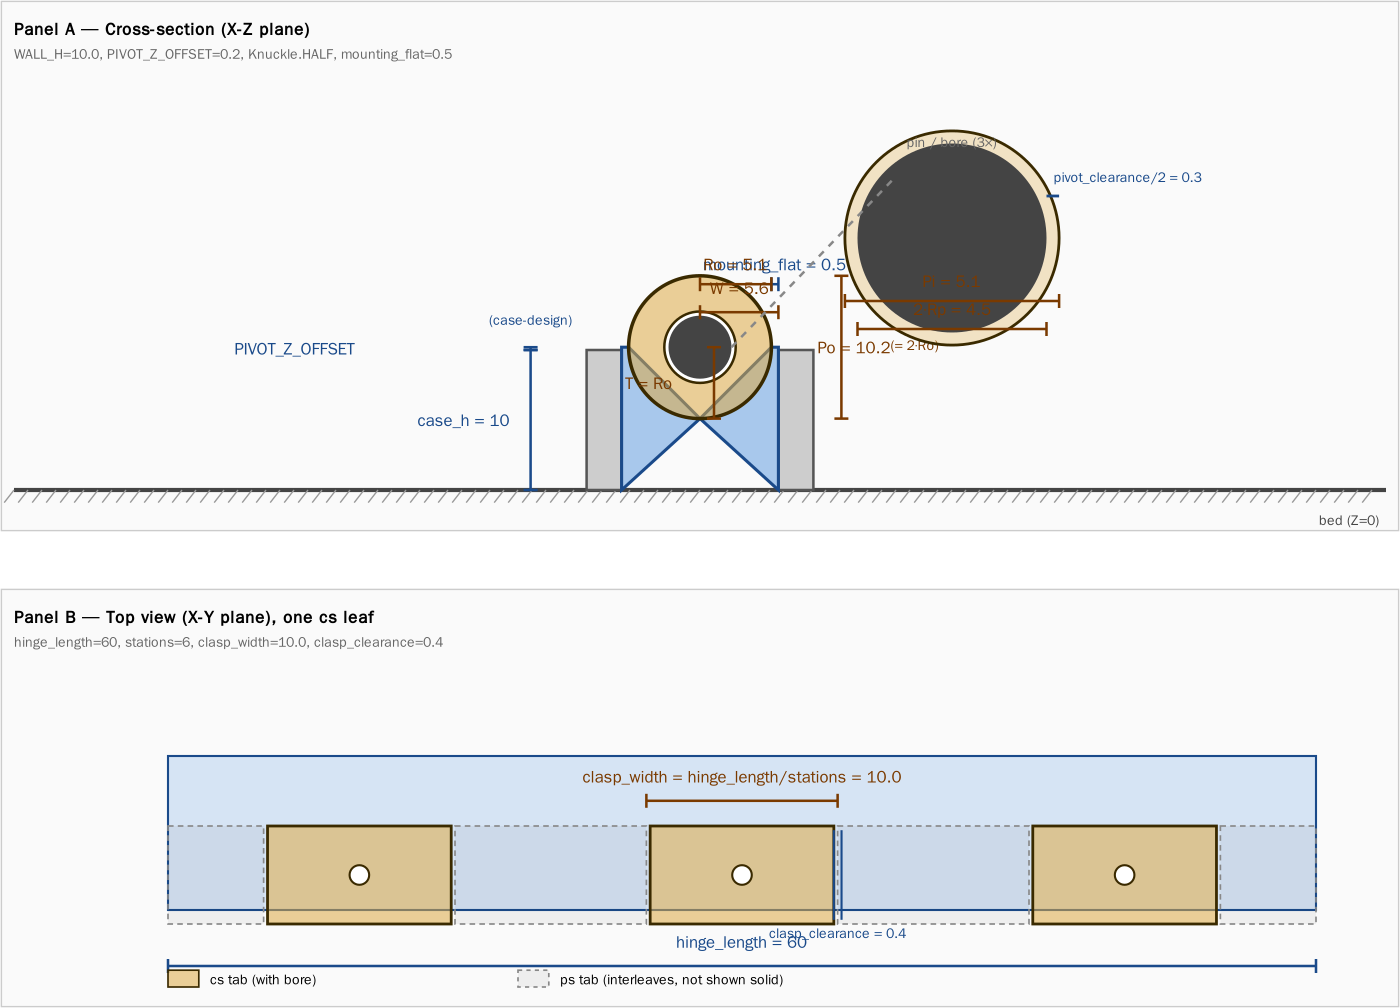
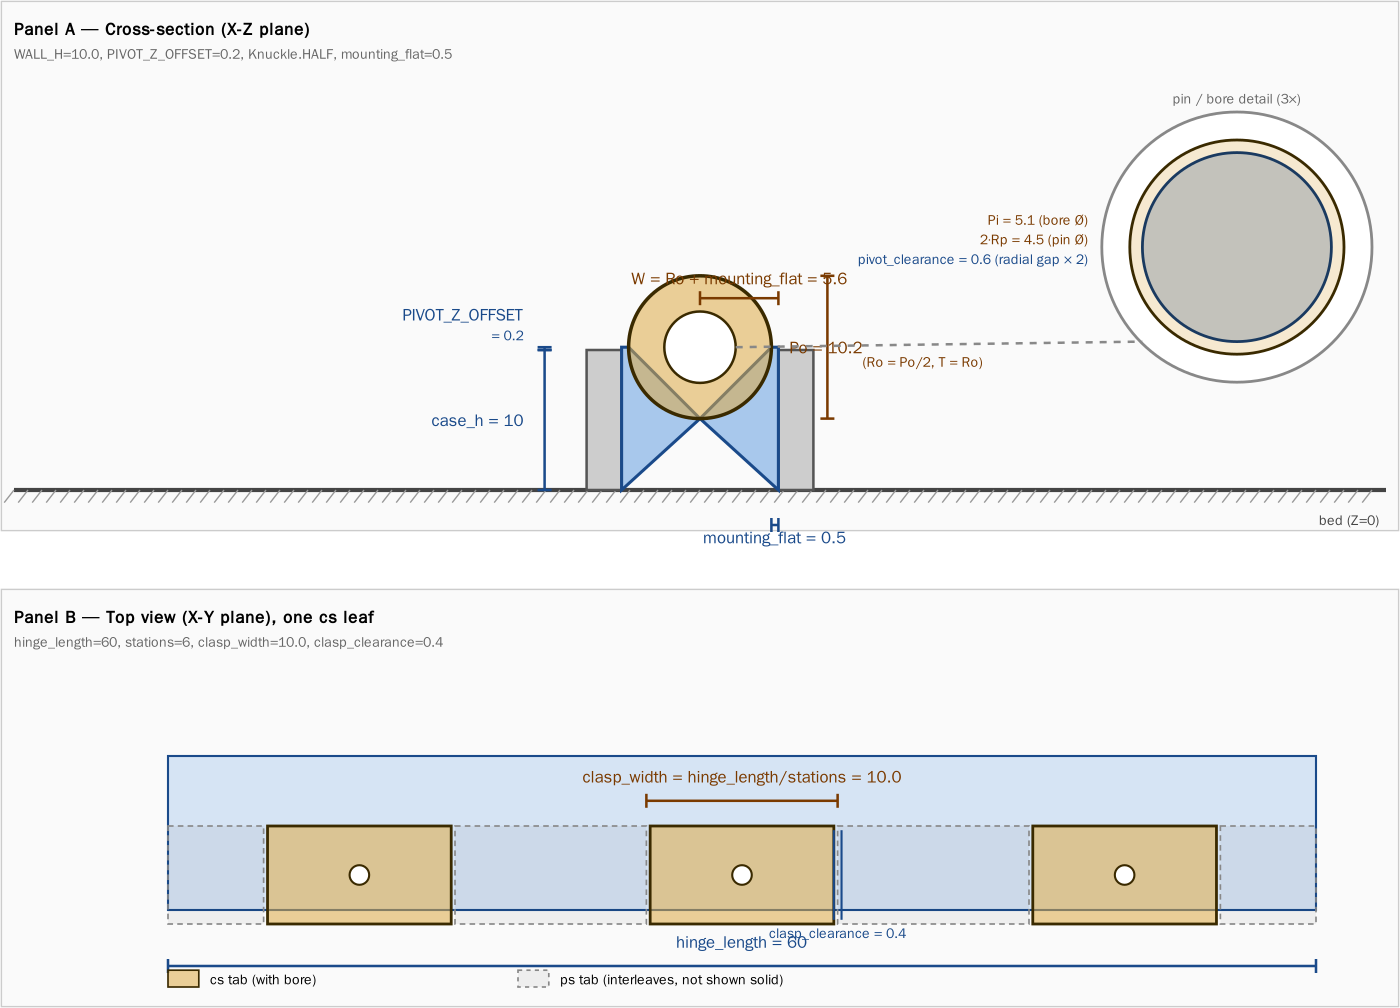
docs/diagrams: declutter parameters_guide panel A
Dropped the Ro and T witness lines — they're just Po/2 by construction
and were doubling up on the Po dim line. Po's label now spells that out:
"Po = 10.2 (Ro = Po/2, T = Ro)". Moved mounting_flat down to its own
caliper below the leaf bottom so it doesn't share a row with W's label.
PIVOT_Z_OFFSET label is anchored to the left of its dim line so it
doesn't fall on top of the wall/leaf.

The pin/bore callout was repositioned in the previous commit; this one
just tidies the on-cross-section labels.

diff --git a/docs/diagrams/render_params.py b/docs/diagrams/render_params.py
@@ -124,86 +124,88 @@ def panel_a():
         parts.append(f'<polygon points="{s}" fill="{leaf_color}" '
                      f'stroke="#1a4a8a" stroke-width="0.22"/>')
 
-    # Knuckle disc
+    # Knuckle disc (cs side, with bore visible — pin shown only in the callout)
     dx, dy = pt(0, HINGE_CASE_H)
     parts.append(f'<circle cx="{dx:.2f}" cy="{dy:.2f}" r="{Ro:.2f}" '
                  f'fill="rgba(220,170,70,0.55)" stroke="#3a2a00" stroke-width="0.25"/>')
-    # Pin (bore circle visible on cs side)
     parts.append(f'<circle cx="{dx:.2f}" cy="{dy:.2f}" r="{Pi/2:.2f}" '
                  f'fill="white" stroke="#3a2a00" stroke-width="0.18"/>')
-    parts.append(f'<circle cx="{dx:.2f}" cy="{dy:.2f}" r="{Rp:.2f}" '
-                 f'fill="#444" stroke="none"/>')
 
-    # Vertical dim: case_h (WALL_H), on far left
-    parts.append(dim_v(lwx - 4, pt(0, 0)[1], pt(0, WALL_H)[1],
+    # Five key spatial dimensions only — Ro/T are derived (= Po/2) so they
+    # don't get their own dim lines; they're explained in the label of Po.
+
+    # 1. case_h on far left
+    parts.append(dim_v(lwx - 3, pt(0, 0)[1], pt(0, WALL_H)[1],
                        f"case_h = {WALL_H:.0f}"))
 
-    # Vertical dim: PIVOT_Z_OFFSET, on far left, above case_h
-    parts.append(dim_v(lwx - 4, pt(0, WALL_H)[1], pt(0, HINGE_CASE_H)[1],
-                       "PIVOT_Z_OFFSET", label_offset=-12.5))
-    parts.append(f'<text x="{lwx-4:.2f}" y="{pt(0,HINGE_CASE_H)[1]-1.6:.2f}" '
-                 f'{TICK_FONT} fill="{PARAM_COLOR}" text-anchor="middle">'
-                 f'(case-design)</text>')
+    # 2. PIVOT_Z_OFFSET on far left, above case_h. Label set further out
+    #    because the dimension itself is tiny (0.2 mm).
+    pzo_y_mid = (pt(0, WALL_H)[1] + pt(0, HINGE_CASE_H)[1]) / 2
+    parts.append(dim_v(lwx - 3, pt(0, WALL_H)[1], pt(0, HINGE_CASE_H)[1],
+                       "", label_offset=0))
+    parts.append(f'<text x="{lwx - 4.5:.2f}" y="{pzo_y_mid - 2:.2f}" '
+                 f'{LABEL_FONT} fill="{PARAM_COLOR}" text-anchor="end">'
+                 f'PIVOT_Z_OFFSET</text>')
+    parts.append(f'<text x="{lwx - 4.5:.2f}" y="{pzo_y_mid - 0.6:.2f}" '
+                 f'{TICK_FONT} fill="{PARAM_COLOR}" text-anchor="end">'
+                 f'= {PIVOT_Z_OFFSET}</text>')
 
-    # Vertical dim: Po (knuckle diameter)
-    dim_x = cx + Ro + 5
-    parts.append(dim_v(dim_x, pt(0, HINGE_CASE_H - Ro)[1], pt(0, HINGE_CASE_H + Ro)[1],
-                       f"Po = {Po:.1f}", color=DERIVED_COLOR, label_offset=3.5))
-    parts.append(f'<text x="{dim_x+3.5:.2f}" y="{pt(0, HINGE_CASE_H)[1]+0.2:.2f}" '
-                 f'{TICK_FONT} fill="{DERIVED_COLOR}">(= 2·Ro)</text>')
+    # 3. Po on the right of the disc — vertical caliper
+    po_dim_x = cx + Ro + 4
+    parts.append(dim_v(po_dim_x, pt(0, HINGE_CASE_H - Ro)[1], pt(0, HINGE_CASE_H + Ro)[1],
+                       f"Po = {Po:.1f}", color=DERIVED_COLOR, label_offset=2.5))
+    parts.append(f'<text x="{po_dim_x + 2.5:.2f}" y="{pt(0, HINGE_CASE_H)[1] + 1.4:.2f}" '
+                 f'{TICK_FONT} fill="{DERIVED_COLOR}">(Ro = Po/2, T = Ro)</text>')
 
-    # Vertical dim: T = Ro, between disc bottom and pivot (=axis Z)
-    parts.append(dim_v(cx + 1, pt(0, HINGE_CASE_H - T)[1], pt(0, HINGE_CASE_H)[1],
-                       f"T = Ro", color=DERIVED_COLOR, label_offset=-3.0))
-
-    # Horizontal dim: W = Ro + mounting_flat at the leaf top
+    # 4. W on the leaf top, ABOVE the leaf (one row only)
+    leaf_top_y = pt(0, HINGE_CASE_H)[1] - 3.5
     parts.append(dim_h(pt(0, HINGE_CASE_H)[0], pt(W, HINGE_CASE_H)[0],
-                       pt(0, HINGE_CASE_H)[1] - 2.5, f"W = {W:.1f}",
-                       color=DERIVED_COLOR))
-
-    # Horizontal dim: mounting_flat (the part of W beyond Ro)
-    parts.append(dim_h(pt(Ro, HINGE_CASE_H)[0], pt(W, HINGE_CASE_H)[0],
-                       pt(0, HINGE_CASE_H)[1] - 4.5,
-                       f"mounting_flat = {MOUNTING_FLAT}", label_offset=-1.0))
-
-    # Horizontal dim: Ro at the same level
-    parts.append(dim_h(pt(0, HINGE_CASE_H)[0], pt(Ro, HINGE_CASE_H)[0],
-                       pt(0, HINGE_CASE_H)[1] - 4.5, f"Ro = {Ro:.1f}",
+                       leaf_top_y, f"W = Ro + mounting_flat = {W:.1f}",
                        color=DERIVED_COLOR, label_offset=-1.0))
 
-    # Pin closeup callout
-    callout_x = cx + 18
-    callout_y = bed_y - 18
-    callout_r = 6
-    parts.append(f'<circle cx="{callout_x}" cy="{callout_y}" r="{callout_r}" '
-                 f'fill="white" stroke="#888" stroke-width="0.2"/>')
-    # Magnified pin/bore (scale 3x)
+    # 5. mounting_flat alone, on the bottom edge of the leaf (clear of the
+    #    W label above), pointing down so its label sits below the leaf bottom.
+    mflat_y = pt(W, 0)[1] + 2.5
+    parts.append(dim_h(pt(Ro, 0)[0], pt(W, 0)[0], mflat_y,
+                       f"mounting_flat = {MOUNTING_FLAT}", label_offset=1.3))
+
+    # Pin closeup callout — placed in the upper-right empty space, well
+    # clear of the cross-section and its dimension lines.
     scale = 3
+    callout_r = max(Pi/2, Rp) * scale + 2     # comfortably contains the magnified bore
+    callout_x = PANEL_A_W - callout_r - 2     # snug to the right edge
+    callout_y = 8 + callout_r                 # below the panel title
+    parts.append(f'<circle cx="{callout_x:.2f}" cy="{callout_y:.2f}" r="{callout_r:.2f}" '
+                 f'fill="white" stroke="#888" stroke-width="0.2"/>')
     pin_cx = callout_x
     pin_cy = callout_y
-    parts.append(f'<circle cx="{pin_cx}" cy="{pin_cy}" r="{Pi/2*scale:.2f}" '
-                 f'fill="rgba(220,170,70,0.3)" stroke="#3a2a00" stroke-width="0.2"/>')
-    parts.append(f'<circle cx="{pin_cx}" cy="{pin_cy}" r="{Rp*scale:.2f}" '
-                 f'fill="#444" stroke="none"/>')
-    # Annotations on callout
-    parts.append(f'<text x="{callout_x}" y="{callout_y - callout_r - 0.5}" '
-                 f'{TICK_FONT} fill="#666" text-anchor="middle">pin / bore (3×)</text>')
-    parts.append(dim_h(pin_cx - Pi/2*scale, pin_cx + Pi/2*scale, pin_cy + 4.5,
-                       f"Pi = {Pi:.1f}", color=DERIVED_COLOR, label_offset=-1.0))
-    parts.append(dim_h(pin_cx - Rp*scale, pin_cx + Rp*scale, pin_cy + 6.5,
-                       f"2·Rp = {2*Rp:.1f}", color=DERIVED_COLOR, label_offset=-1.0))
-    # pivot_clearance gap arrow
-    parts.append(f'<line x1="{pin_cx + Rp*scale:.2f}" y1="{pin_cy-3:.2f}" '
-                 f'x2="{pin_cx + Pi/2*scale:.2f}" y2="{pin_cy-3:.2f}" '
-                 f'stroke="{PARAM_COLOR}" stroke-width="0.2"/>')
-    parts.append(f'<text x="{pin_cx + Rp*scale + 0.5:.2f}" y="{pin_cy-4:.2f}" '
-                 f'{TICK_FONT} fill="{PARAM_COLOR}">'
-                 f'pivot_clearance/2 = {PC/2}</text>')
+    # bore (light yellow + outline)
+    parts.append(f'<circle cx="{pin_cx:.2f}" cy="{pin_cy:.2f}" r="{Pi/2*scale:.2f}" '
+                 f'fill="rgba(220,170,70,0.25)" stroke="#3a2a00" stroke-width="0.2"/>')
+    # pin (cool grey outline)
+    parts.append(f'<circle cx="{pin_cx:.2f}" cy="{pin_cy:.2f}" r="{Rp*scale:.2f}" '
+                 f'fill="rgba(100,120,150,0.35)" stroke="#1a3a60" stroke-width="0.2"/>')
+    # Title above the callout
+    parts.append(f'<text x="{callout_x:.2f}" y="{callout_y - callout_r - 0.6:.2f}" '
+                 f'{TICK_FONT} fill="#666" text-anchor="middle">pin / bore detail (3×)</text>')
 
-    # Callout leader line
+    # Labels to the LEFT of the callout, stacked vertically (won't collide
+    # with the disc / dimension lines which are far below in panel space).
+    label_x = callout_x - callout_r - 1
+    parts.append(f'<text x="{label_x:.2f}" y="{callout_y - 1.6:.2f}" '
+                 f'{TICK_FONT} fill="{DERIVED_COLOR}" text-anchor="end">'
+                 f'Pi = {Pi:.1f} (bore Ø)</text>')
+    parts.append(f'<text x="{label_x:.2f}" y="{callout_y - 0.2:.2f}" '
+                 f'{TICK_FONT} fill="{DERIVED_COLOR}" text-anchor="end">'
+                 f'2·Rp = {2*Rp:.1f} (pin Ø)</text>')
+    parts.append(f'<text x="{label_x:.2f}" y="{callout_y + 1.2:.2f}" '
+                 f'{TICK_FONT} fill="{PARAM_COLOR}" text-anchor="end">'
+                 f'pivot_clearance = {PC} (radial gap × 2)</text>')
+
+    # Leader line from disc to callout
     cs_dx, cs_dy = pt(0, HINGE_CASE_H)
-    parts.append(f'<line x1="{cs_dx + Rp:.2f}" y1="{cs_dy:.2f}" '
-                 f'x2="{callout_x - callout_r*0.7:.2f}" y2="{callout_y - callout_r*0.7:.2f}" '
+    parts.append(f'<line x1="{cs_dx + Pi/2:.2f}" y1="{cs_dy:.2f}" '
+                 f'x2="{callout_x - callout_r*0.7:.2f}" y2="{callout_y + callout_r*0.7:.2f}" '
                  f'stroke="#888" stroke-width="0.18" stroke-dasharray="0.5,0.5"/>')
 
     parts.append('</g>')